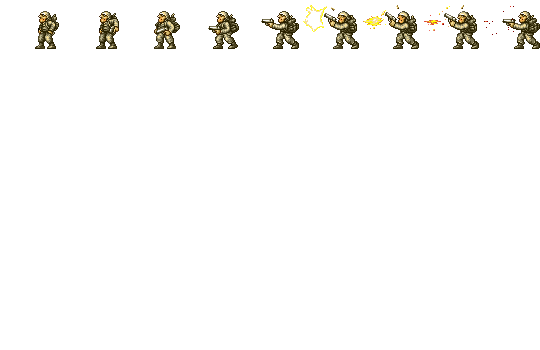
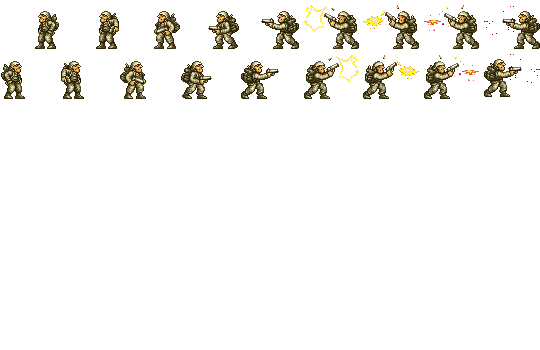
Add files via upload

diff --git a/game.js b/game.js
@@ -75,6 +75,7 @@ function drawPlayer() {
 	this.jumpSpeed = 3;
 	this.allowJump = true;
 	this.traveledDistance = 0;
+	this.laser = false;
 	
     this.update = function() {
         ctx = scene.context;
@@ -83,6 +84,7 @@ function drawPlayer() {
 		}
 		var sourceX;
 		var sourceY = this.direction * (this.height / 2);
+		
 		if(this.crouch){
 			sourceY += this.height;
 			sourceX = this.crouchTime < 3 ? 0 : this.width / 2;
@@ -90,7 +92,7 @@ function drawPlayer() {
 		else {
 			sourceX = Math.round(this.timeMoving / 5) * (this.width / 2);
 		}
-		ctx.drawImage(playerImg, sourceX, sourceY, this.width / 2, this.height / 2, this.x, this.y, this.width, this.height);
+		ctx.drawImage(playerImg, sourceX, sourceY, this.width / 2 - 1, this.height / 2, this.x, this.y, this.width, this.height);
     }
     this.newPos = function() {
 		var allowMove = true;
@@ -227,19 +229,68 @@ function update() {
 		jump();
 	}
 	if(scene.keys && scene.keys[65] == true && player.allowShot == true){
-		player.allowShot = false;
-		var bulletDirection = player.direction == 0 ? 1 : -1;
-		var bulletHeight = player.y + 40;
-		if(player.crouch){
-			bulletHeight += 20;
+		if(player.laser){
+			drawLaser();
 		}
-		bullets.push(new createBullet(bulletDirection, player.x + (bulletDirection == 1 ? 60 : 0), bulletHeight, 10, -1, -1, true));
+		else{
+			player.allowShot = false;
+			var bulletDirection = player.direction == 0 ? 1 : -1;
+			var bulletHeight = player.y + 40;
+			if(player.crouch){
+				bulletHeight += 20;
+			}
+			bullets.push(new createBullet(bulletDirection, player.x + (bulletDirection == 1 ? 60 : 0), bulletHeight, 10, -1, -1, true));
+		}		
 	}
     player.newPos();    
     player.update();
 	
 	moveBullets();
 	drawUI();
+}
+
+function drawLaser(){
+	ctx = scene.context;
+	var laserHeight = player.y + 40;
+	if(player.crouch){
+		laserHeight += 20;
+	}
+	var colors = shuffleColors();
+	
+	var startX = player.x + (player.direction == 0 ? 60 : 0);
+	var endX = player.direction == 0 ? scene.canvas.width : 0;
+	ctx.beginPath();
+	ctx.moveTo(startX, laserHeight);
+	ctx.lineTo(endX, laserHeight);
+	ctx.strokeStyle = colors[0];
+	ctx.stroke();
+	
+	laserHeight += 2;
+	ctx.beginPath();
+	ctx.moveTo(startX, laserHeight);
+	ctx.lineTo(endX, laserHeight);
+	ctx.strokeStyle = colors[1];
+	ctx.stroke();
+	
+	laserHeight += 2;
+	ctx.beginPath();
+	ctx.moveTo(startX, laserHeight);
+	ctx.lineTo(endX, laserHeight);
+	ctx.strokeStyle = colors[2];
+	ctx.stroke();
+}
+
+function shuffleColors() {
+	var array = ["red", "blue", "yellow"];	
+	var currentIndex = 3, temporaryValue, randomIndex;
+	while (0 !== currentIndex) {
+		randomIndex = Math.floor(Math.random() * currentIndex);
+		currentIndex -= 1;
+		temporaryValue = array[currentIndex];
+		array[currentIndex] = array[randomIndex];
+		array[randomIndex] = temporaryValue;
+	}
+	return array;
 }
 
 function moveBullets(){
@@ -385,18 +436,26 @@ function drawEnemies(){
 			ctx = scene.context;
 			
 			var sourceX = Math.round(enemy.timeShooting / 5) * 60;
-			var sourceY = 0;
 			if(enemy.timeShooting > 40){
 				sourceX = 0;
 			}
+			var sourceY = 0;
+			var shift = 0;
+			if(enemy.direction == 1){
+				sourceY = enemy.imageHeight / 2;
+				shift = enemy.imageWidth - enemy.width;
+			}
 			
-			ctx.drawImage(enemyImg, sourceX, sourceY, enemy.imageWidth / 2, enemy.imageHeight / 2 - 1, enemy.currentX, enemy.y, enemy.imageWidth, enemy.imageHeight);
+			ctx.drawImage(enemyImg, sourceX, sourceY, enemy.imageWidth / 2, enemy.imageHeight / 2 - 1, enemy.currentX + shift, enemy.y, enemy.imageWidth, enemy.imageHeight);
 			if(enemy.timeShooting == 25){
 				var targetY = player.y + 22;
 				if(player.crouch){
 					targetY += 22;
 				}
-				bullets.push(new createBullet(enemy.direction, enemy.currentX + 50, enemy.y + 40, 3, player.x, targetY, false));
+				if(enemy.direction == 1){
+					shift += 30;
+				}
+				bullets.push(new createBullet(enemy.direction, enemy.currentX + 50 + shift, enemy.y + 40, 3, player.x, targetY, false));
 			}
 			else if(enemy.timeShooting > 80){
 				enemy.timeShooting = 0;
@@ -408,7 +467,7 @@ function drawEnemies(){
 			for(var j = 0 ; j < gameObjects.length; j++) {
 				var go = gameObjects[j];
 				if(go.y < enemy.y + enemy.imageHeight && go.y + go.height > enemy.y){
-					if(go.x < enemyRightX && enemy.direction == 1 && go.x + go.width > enemyRightX){
+					if(go.x < enemyRightX + 10 && enemy.direction == 1 && go.x + go.width > enemyRightX){
 						noObsticle = false;
 						break;
 					}else if(go.x + go.width > enemyLeftX && go.x < enemyLeftX && enemy.direction == -1){
